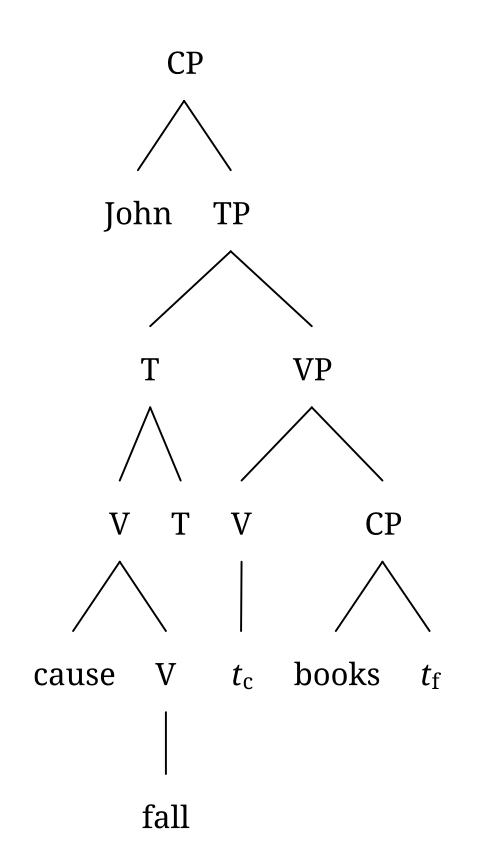
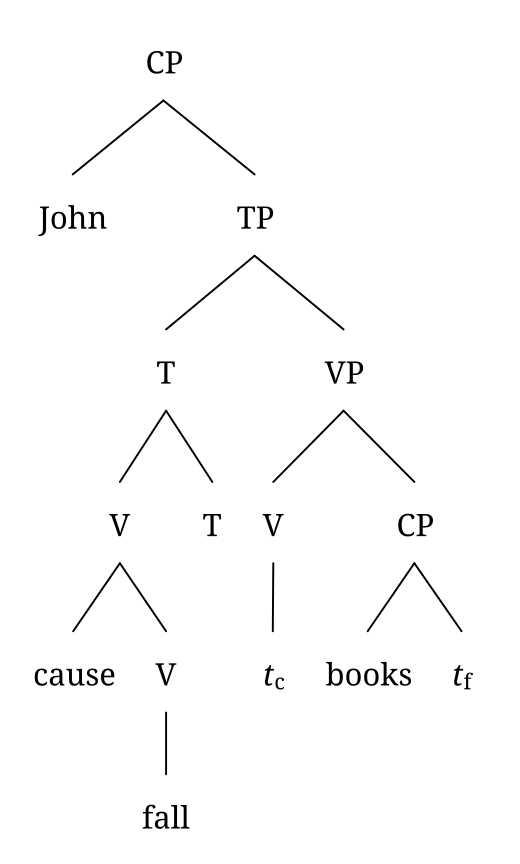
Scale every gallery figure by the same factor
The examples page handed each PNG to the browser with no size, so a figure was
drawn at its natural size when it fitted the column and shrunk when it did not.
Since a tree's pixel size follows its content, a short tree appeared at 100%
beside a wide one at 30%, and the same 16px label looked twice as large in one
figure as in the next. Every figure now asks for 60% of its rendered size —
the median the column was already imposing — so the small ones come down to
meet the rest instead of the rest being blown up. Jekyll cannot measure images
on GitHub Pages, so the sizes are recorded by dev/stamp_figure_sizes.rb, which
the generate tasks now run.

Example 002 (Chomsky 1995: 50) goes back to tidy: medium.

diff --git a/docs/examples.html b/docs/examples.html
@@ -53,8 +53,16 @@ layout: default
             </table>
           </div>
           <div style='margin-top: 0; padding: 10px; margin-bottom: auto;'>
+            {%- comment -%}
+              Every figure is drawn at 60% of the size it was rendered at, so a
+              short tree does not appear at full size beside a wide one that the
+              column has shrunk to a third. Wider figures are still capped by
+              max-width in the stylesheet. Click through for the full size.
+            {%- endcomment -%}
+            {%- assign figure = site.data.figure_sizes[example.name] -%}
             <a href='assets/img/{{ example.name }}.png' data-lightbox='{{ example.name }}'>
-              <img src='assets/img/{{ example.name}}.png' />
+              <img src='assets/img/{{ example.name}}.png'
+                   {%- if figure %} width='{{ figure.width | times: 0.6 | round }}' height='{{ figure.height | times: 0.6 | round }}'{% endif %} />
             </a>
           </div>
         </div>

diff --git a/docs/assets/css/style.scss b/docs/assets/css/style.scss
@@ -24,10 +24,12 @@ div.grid code {
   overflow-x: auto;
 }
 
-/* Fit a figure to its column, but never blow a small tree up past the size
-   it was rendered at — upscaled trees look blurred and badly spaced. */
+/* The template asks for 60% of each figure's rendered size (see the width
+   attribute it writes from _data/figure_sizes.yml), which keeps the apparent
+   scale comparable from one figure to the next. These rules cap the ones that
+   are still too wide or too tall for the column; height: auto keeps the aspect
+   ratio when max-width takes over. */
 div.grid img {
-  width: auto;
   height: auto;
   max-width: 100%;
   max-height: 600px;

diff --git a/dev/stamp_figure_sizes.rb b/dev/stamp_figure_sizes.rb
@@ -1,0 +1,46 @@
+# frozen_string_literal: true
+
+# Records the pixel size of every gallery figure in docs/_data/figure_sizes.yml.
+#
+# The gallery used to hand each PNG to the browser with no size, so a figure
+# was drawn at its natural size when it fitted the column and shrunk when it
+# did not. Since a tree's pixel size follows its content, that meant a short
+# tree appeared at 100% next to a wide one at 30%, and the same 16px label
+# looked twice as large in one figure as in the next. The template scales every
+# figure by the same factor instead, which it can only do if it knows how big
+# each one is — Jekyll cannot read image dimensions on GitHub Pages.
+#
+# Run from the repository root, after generating the examples:
+#   ruby dev/stamp_figure_sizes.rb
+
+require "yaml"
+require "fileutils"
+
+IMG_DIR = File.expand_path("../docs/assets/img", __dir__)
+DATA_FILE = File.expand_path("../docs/_data/figure_sizes.yml", __dir__)
+
+# Width and height out of the PNG's IHDR chunk, which always starts at byte 16.
+def png_size(path)
+  header = File.binread(path, 24)
+  raise "#{path}: not a PNG" unless header && header[1, 3] == "PNG"
+
+  header[16, 8].unpack("N2")
+end
+
+sizes = Dir.glob(File.join(IMG_DIR, "*.png")).sort.each_with_object({}) do |path, acc|
+  name = File.basename(path, ".png")
+  width, height = png_size(path)
+  acc[name] = { "width" => width, "height" => height }
+end
+
+abort "no figures found in #{IMG_DIR}" if sizes.empty?
+
+FileUtils.mkdir_p(File.dirname(DATA_FILE))
+
+File.write(DATA_FILE, <<~HEADER + sizes.to_yaml.sub(/\A---\n/, ""))
+  # Generated by dev/stamp_figure_sizes.rb — do not edit by hand.
+  # Pixel size of each gallery figure, so the examples page can scale them all
+  # by one factor instead of letting small trees display at full size.
+HEADER
+
+puts "wrote #{sizes.size} figure sizes to #{DATA_FILE.sub(Dir.pwd + "/", "")}"

diff --git a/docs/_examples/002.md b/docs/_examples/002.md
@@ -9,7 +9,7 @@ connector: "auto"
 connector_height: "1.5"
 linewidth: "1"
 hide_default_connectors: "off"
-tidy: "high"
+tidy: "medium"
 font: "Noto Serif"
 reference: "Chomsky 1995: 50"
 ---
